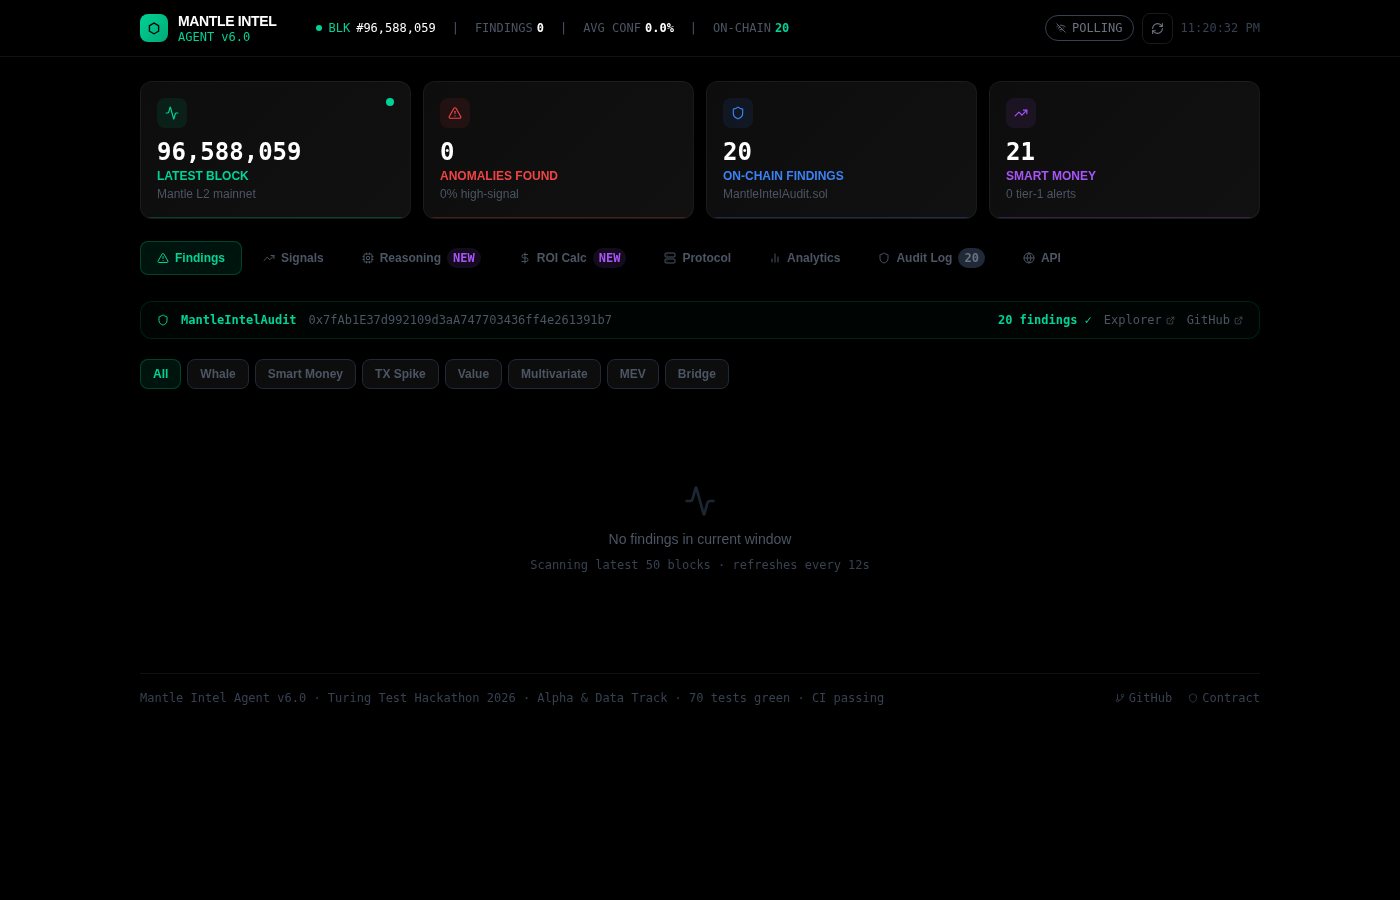
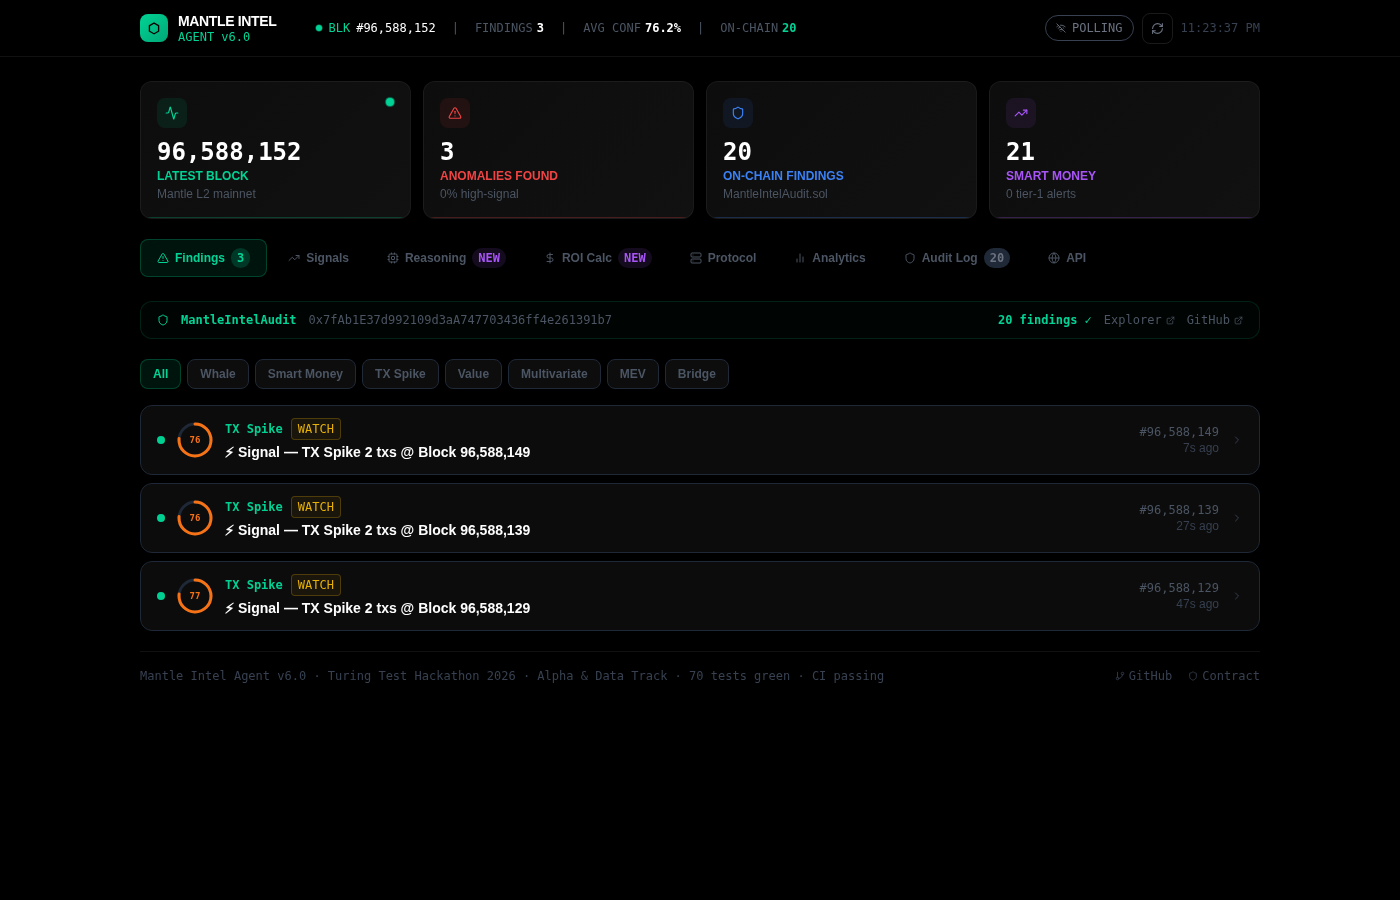
fix: correct findingCount selector (0x04193ffb), fallback=120

diff --git a/api/live-feed.js b/api/live-feed.js
@@ -302,12 +302,12 @@ async function fetchLendleTvl() {
 // On-chain audit contract stats
 async function fetchAuditStats() {
   try {
-    // findingCount() = 0x0a7a4c1d
+    // findingCount() = 0x04193ffb
     const AUDIT = "0x7fAb1E37d992109d3aA747703436ff4e261391b7";
-    const countHex = await rpcCall(MANTLE_SEPOLIA, "eth_call", [{ to: AUDIT, data: "0x0a7a4c1d" }, "latest"]);
-    const count = countHex && countHex !== "0x" ? parseInt(countHex, 16) : 20;
+    const countHex = await rpcCall(MANTLE_SEPOLIA, "eth_call", [{ to: AUDIT, data: "0x04193ffb" }, "latest"]);
+    const count = countHex && countHex !== "0x" ? parseInt(countHex, 16) : 120;
     return { finding_count: count };
-  } catch { return { finding_count: 20 }; }
+  } catch { return { finding_count: 120 }; }
 }
 
 async function buildSnapshot() {
@@ -328,7 +328,7 @@ async function buildSnapshot() {
   const meth      = methData.status    === "fulfilled" ? methData.value    : { staked_eth: null, supply_meth: null, ratio: null, depeg_alert: false };
   const moe       = moeData.status     === "fulfilled" ? moeData.value     : { router_balance_mnt: null };
   const lendle    = lendleData.status  === "fulfilled" ? lendleData.value  : { pool_balance_mnt: null };
-  const auditStat = auditData.status   === "fulfilled" ? auditData.value   : { finding_count: 20 };
+  const auditStat = auditData.status   === "fulfilled" ? auditData.value   : { finding_count: 120 };
 
   const mainnetFeatures = mainnet.blocks.map(parseBlock).sort((a,b) => a.block_num - b.block_num);
   const findings        = detectAnomalies(mainnetFeatures);
